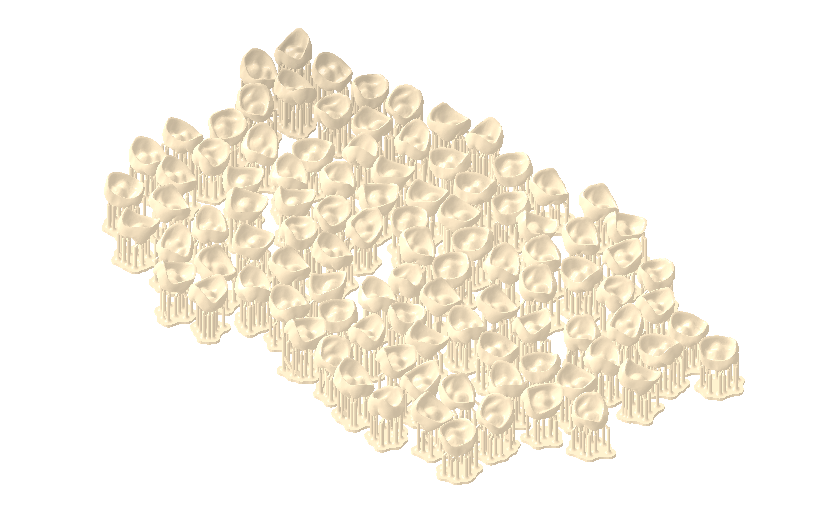
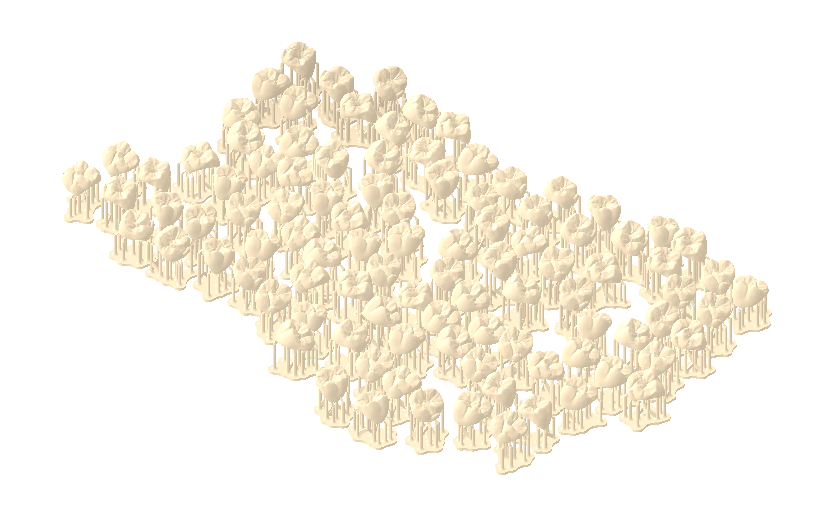
Reorient to make occlusal surfaces face away from build plage

Changed region(s): [[0.061, 0.0612, 0.9451, 0.9178]]

diff --git a/main.py b/main.py
@@ -33,7 +33,10 @@ def hello_server():
                     scene_id=scene.id,
                     import_model_request=models.ImportModelRequest(
                         file=str(file),
-                        repair_behavior="REPAIR"
+                        repair_behavior="REPAIR",
+                        orientation=models.OrientationModel(
+                            models.EulerAnglesModel(x=180, y=0, z=0)
+                        )
                     )
                 )
 

diff --git a/readme.md b/readme.md
@@ -124,3 +124,22 @@ preform.api.auto_layout(
     )
 )
 ```
+
+### 5. Ensure occlusal surfaces are facing away from the build surface
+
+The STL files have their occlusal surfaces facing down, but the spec calls for printing with them facing upwards (away from build tray). To fix this we run a rotate transform on each model at import time to rotate 180 degrees around the X axis.
+
+```python
+# Import teeth
+...
+preform.api.import_model(
+    scene_id=scene.id,
+    import_model_request=models.ImportModelRequest(
+        file=str(file),
+        repair_behavior="REPAIR",
+        orientation=models.OrientationModel(
+            models.EulerAnglesModel(x=180, y=0, z=0)
+        )
+    )
+)
+```
